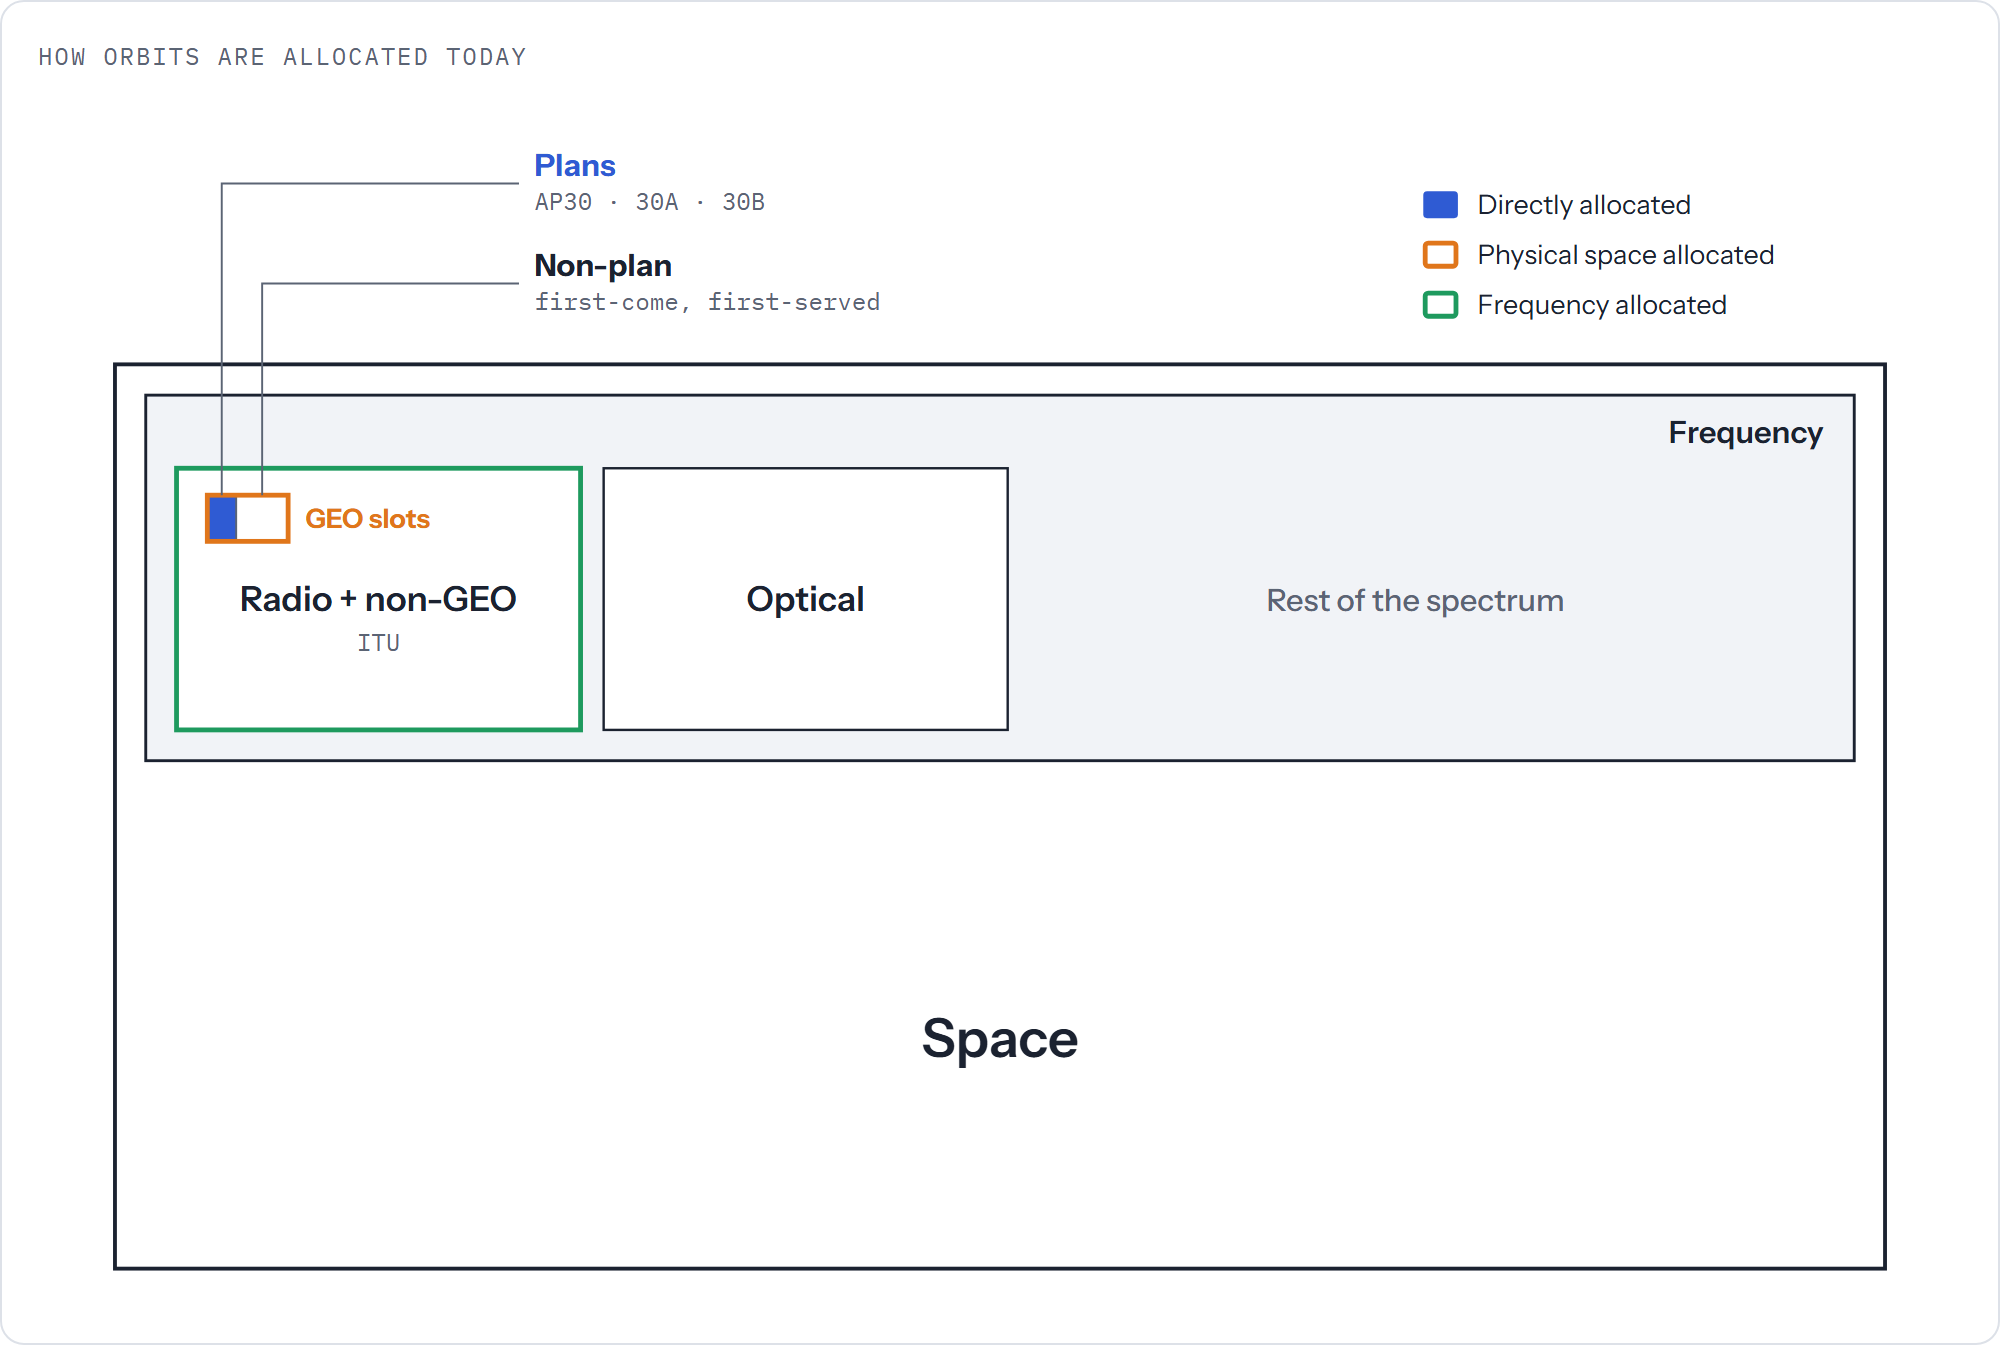
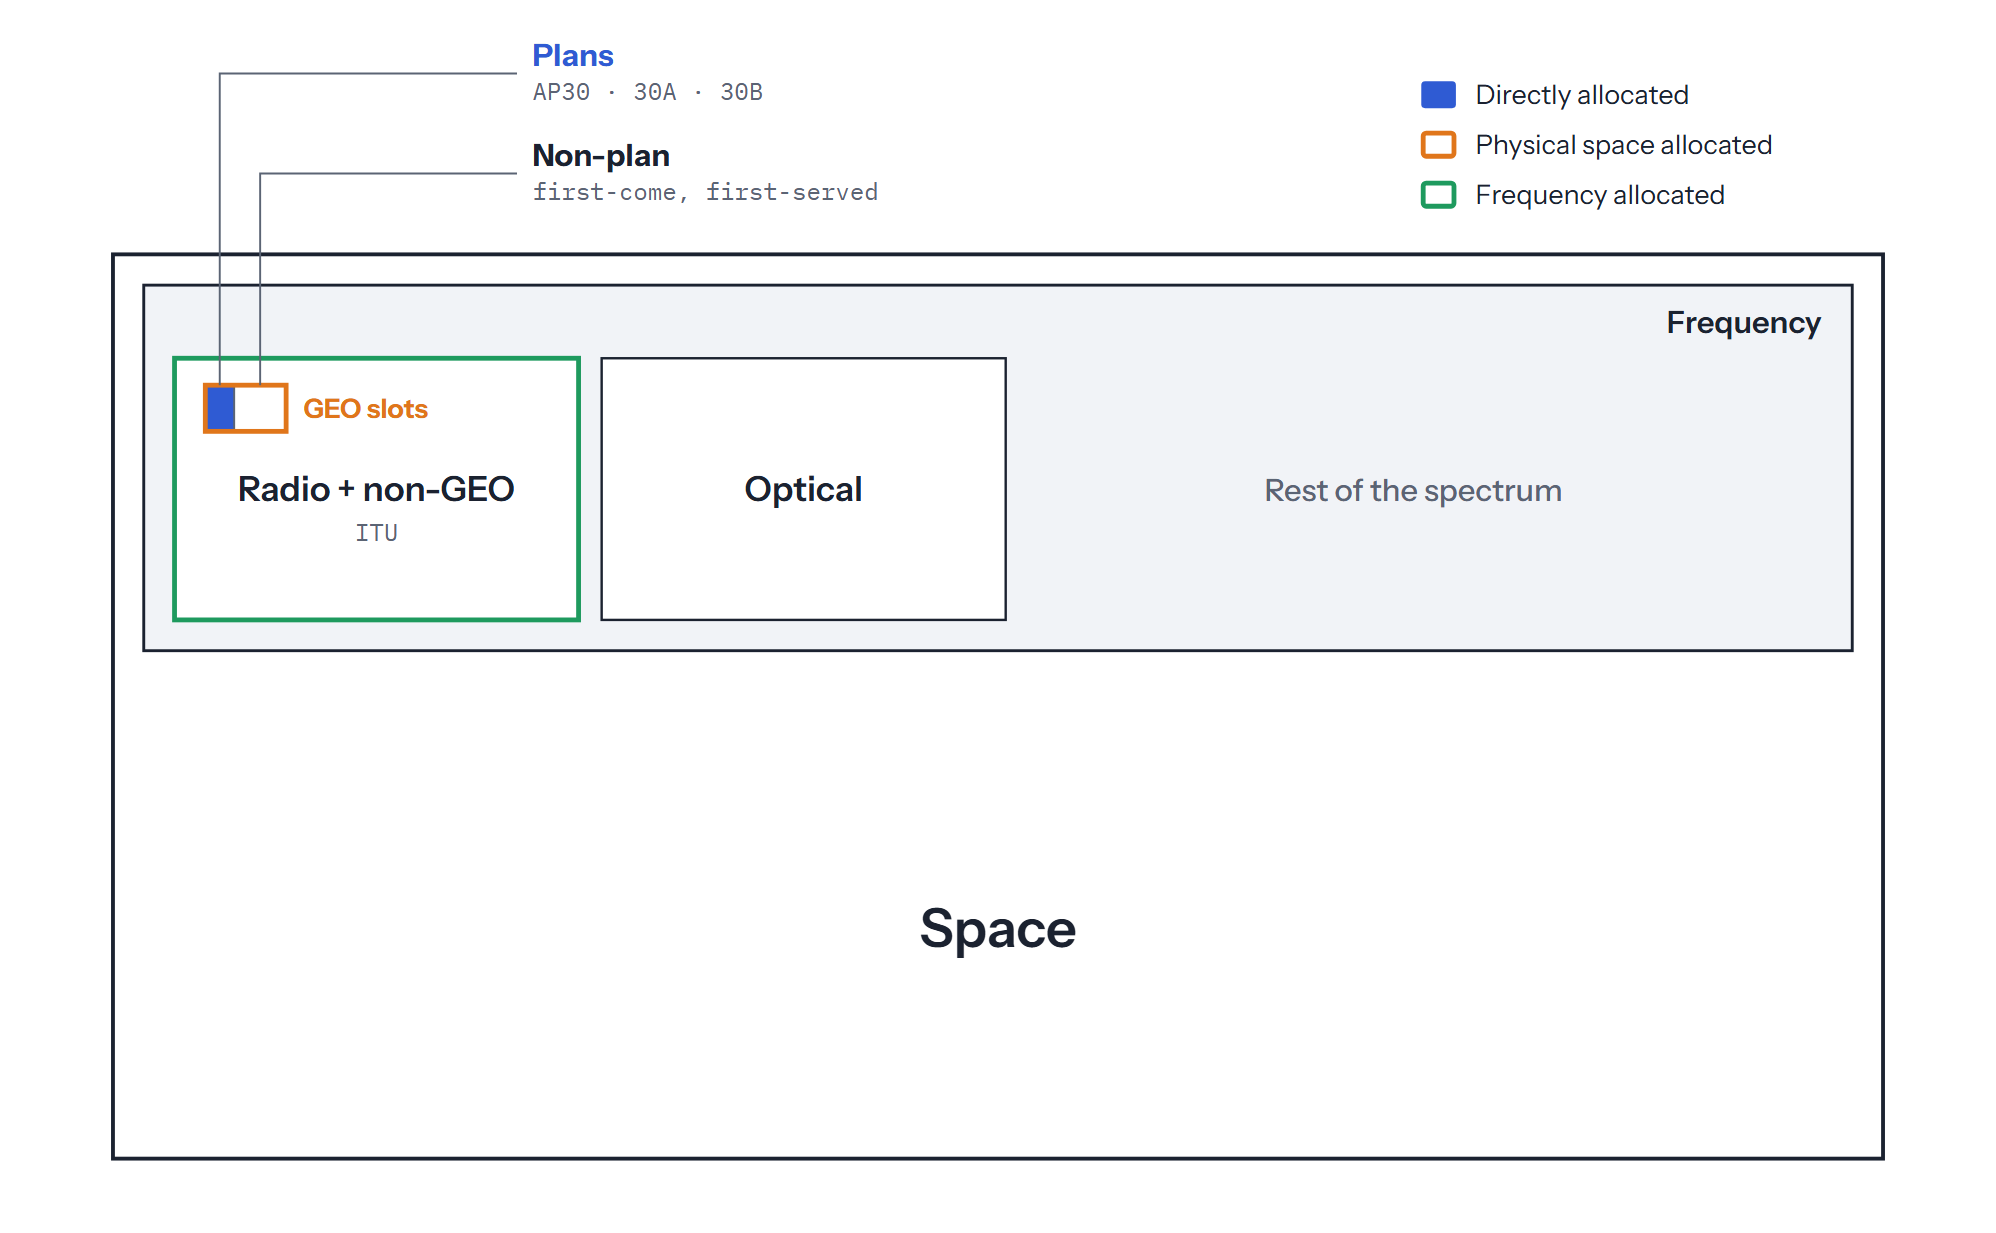
Crop heading and border from allocation figure

diff --git a/how-earth-orbits-are-allocated-today/index.html b/how-earth-orbits-are-allocated-today/index.html
@@ -244,7 +244,7 @@
       </p>
 
       <figure>
-        <img src="allocation-today.png" width="2000" height="1345" loading="lazy"
+        <img src="allocation-today.png" width="1996" height="1233" loading="lazy"
              alt="Nested boxes. The largest box is Space. Inside it, a smaller box is Frequency, containing Radio plus non-GEO (managed by the ITU, outlined as frequency-allocated), Optical, and the rest of the spectrum. Inside the radio box is a small GEO slots box, outlined as physical space allocated, of which a thin sliver labelled Plans (AP30, 30A, 30B) is directly allocated; the rest of GEO is non-plan, first-come, first-served." />
         <figcaption>
           <strong>How I visualize physical orbit and spectrum allocations today.</strong>
